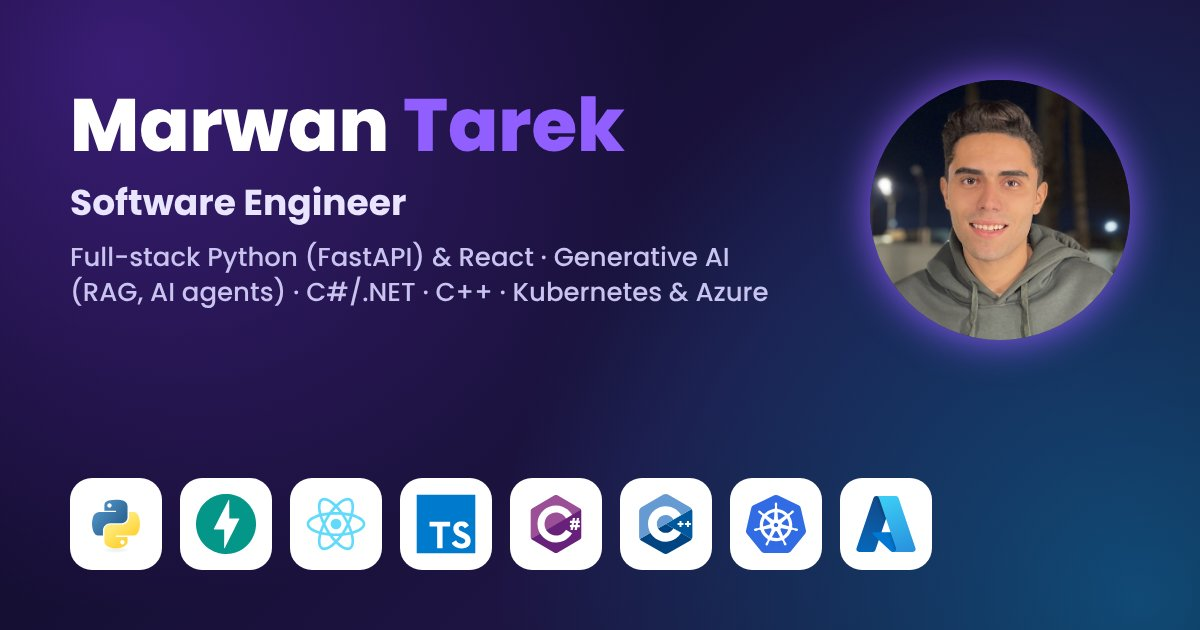
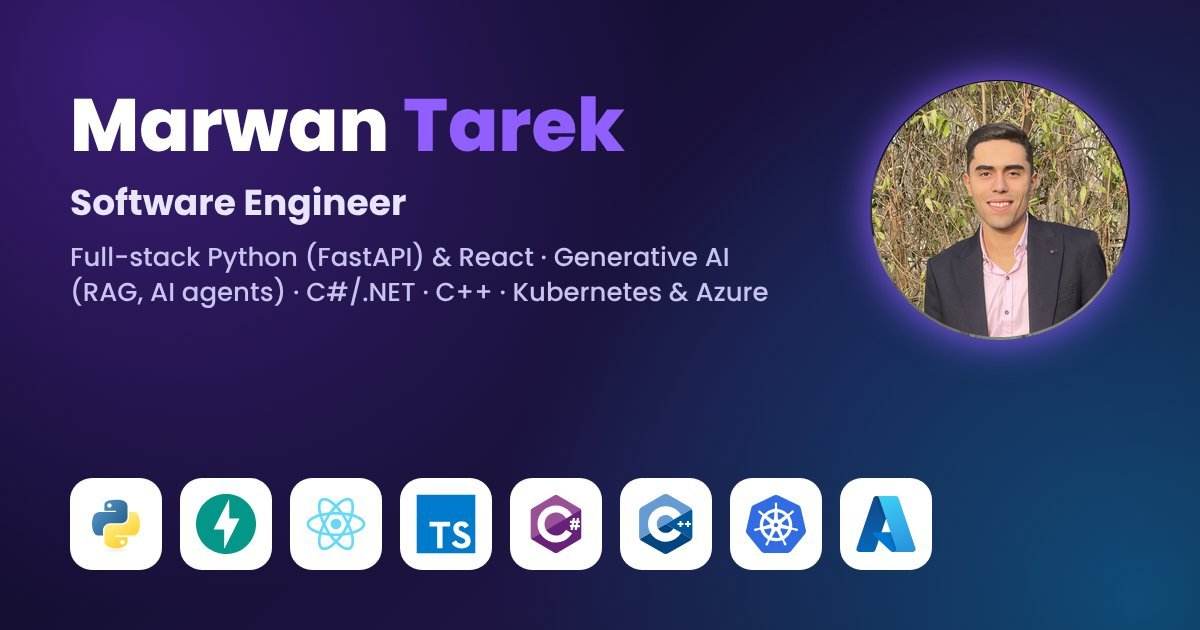
New profile photo and working contact form
- Replace the profile photo (head-and-shoulders crop) and update the
  link-preview image
- Contact form: EmailJS keys were never configured, so every message
  failed. Send through FormSubmit instead (EmailJS still used if its
  keys are set), add a honeypot and email check, and show the direct
  email address if sending fails

Claude-Session: https://claude.ai/code/session_019At8GHHbdBG1uuzs9xtRVt

Changed region(s): [[0.7092, 0.1206, 0.9558, 0.5429]]

diff --git a/src/components/Contact.jsx b/src/components/Contact.jsx
@@ -14,6 +14,44 @@ import { EMAIL, PHONE_DISPLAY, PHONE_TEL } from "../constants";
 import { FontAwesomeIcon } from "@fortawesome/react-fontawesome";
 import { faUser, faEnvelope, faComment, faPaperPlane, faSpinner, faPhone } from "@fortawesome/free-solid-svg-icons";
 
+// Messages are delivered to EMAIL through FormSubmit (https://formsubmit.co).
+// If EmailJS keys are ever added in Vercel (VITE_EMAILJS_SERVICE_ID,
+// VITE_EMAILJS_TEMPLATE_ID, VITE_EMAIL_JS_ACCESS_TOKEN), EmailJS is used instead.
+const EMAILJS = {
+  service: import.meta.env.VITE_EMAILJS_SERVICE_ID,
+  template: import.meta.env.VITE_EMAILJS_TEMPLATE_ID,
+  key: import.meta.env.VITE_EMAIL_JS_ACCESS_TOKEN,
+};
+
+const sendMessage = async ({ name, email, message }) => {
+  if (EMAILJS.service && EMAILJS.template && EMAILJS.key) {
+    return emailjs.send(
+      EMAILJS.service,
+      EMAILJS.template,
+      { from_name: name, to_name: "Marwan Tarek Zaky", from_email: email, to_email: EMAIL, message },
+      EMAILJS.key
+    );
+  }
+  const res = await fetch(`https://formsubmit.co/ajax/${EMAIL}`, {
+    method: "POST",
+    headers: { "Content-Type": "application/json", Accept: "application/json" },
+    body: JSON.stringify({
+      name,
+      email,
+      message,
+      _replyto: email,
+      _subject: `Portfolio message from ${name}`,
+      _template: "table",
+      _captcha: "false",
+    }),
+  });
+  const data = await res.json().catch(() => ({}));
+  if (!res.ok || String(data.success) !== "true") {
+    throw new Error(data.message || `FormSubmit HTTP ${res.status}`);
+  }
+  return data;
+};
+
 const Contact = () => {
   const formRef = useRef();
   const captchaRef = useRef(); // <-- NEW
@@ -83,21 +121,20 @@ const Contact = () => {
       return;
     }
 
+    if (!/^[^\s@]+@[^\s@]+\.[^\s@]+$/.test(form.email)) {
+      toast.error("Please enter a valid email address.", {
+        duration: 3000,
+        position: 'bottom-right',
+      });
+      return;
+    }
+
+    // Spam bots fill every field, including the hidden one.
+    if (formRef.current?.elements?._honey?.value) return;
+
     setLoading(true);
 
-    emailjs
-      .send(
-        import.meta.env.VITE_EMAILJS_SERVICE_ID,
-        import.meta.env.VITE_EMAILJS_TEMPLATE_ID,
-        {
-          from_name: form.name,
-          to_name: "Marwan Tarek Zaky",
-          from_email: form.email,
-          to_email: "marwantarekzaky@gmail.com",
-          message: form.message,
-        },
-        import.meta.env.VITE_EMAIL_JS_ACCESS_TOKEN
-      )
+    sendMessage(form)
       .then(
         () => {
           setLoading(false);
@@ -118,10 +155,12 @@ const Contact = () => {
         (error) => {
           setLoading(false);
           console.error(error);
-          toast.error("Something went wrong. Please try again.", {
-            duration: 3000,
-            position: 'bottom-right',
-          });
+          toast.error(
+            `Sorry, the message could not be sent. Please email me directly at ${EMAIL}.`,
+            { duration: 6000, position: 'bottom-right' }
+          );
+          setCaptchaToken(null);
+          captchaRef.current?.reset();
         }
       );
   };
@@ -170,6 +209,14 @@ const Contact = () => {
           onSubmit={handleSubmit}
           className="mt-12 flex flex-col gap-8"
         >
+          <input
+            type="text"
+            name="_honey"
+            tabIndex={-1}
+            autoComplete="off"
+            aria-hidden="true"
+            style={{ display: "none" }}
+          />
           <div className="flex flex-col sm:flex-row gap-8">
             <div className="flex-1">
               <label className="flex flex-col">

diff --git a/README.MD b/README.MD
@@ -5,7 +5,7 @@ Personal portfolio of **Marwan Tarek Zaky**, Software Engineer (Python/FastAPI, 
 **Live:** https://portfolio-marwantarekzakys-projects.vercel.app/
 
 ## Stack
-React 18 · Vite · Tailwind CSS · Framer Motion · Three.js (@react-three/fiber) · EmailJS · deployed on Vercel.
+React 18 · Vite · Tailwind CSS · Framer Motion · Three.js (@react-three/fiber) · FormSubmit · deployed on Vercel.
 
 ## Editing content
 All text (experience, projects, courses, skills groups, links) lives in:
@@ -22,7 +22,7 @@ npm run dev      # http://localhost:5173
 npm run build    # production build in ./dist
 ```
 
-Contact form environment variables (set in Vercel): `VITE_EMAILJS_SERVICE_ID`, `VITE_EMAILJS_TEMPLATE_ID`, `VITE_EMAIL_JS_ACCESS_TOKEN`, `VITE_RECAPTCHA_SITE_KEY`.
+Contact form: messages are sent to the email in `src/constants/index.js` through [FormSubmit](https://formsubmit.co) (no account needed; the first message triggers a one-time "Activate Form" email). `VITE_RECAPTCHA_SITE_KEY` is read from `.env.local`. Optionally, setting `VITE_EMAILJS_SERVICE_ID`, `VITE_EMAILJS_TEMPLATE_ID` and `VITE_EMAIL_JS_ACCESS_TOKEN` in Vercel switches the form to EmailJS.
 
 ## Deploy
 Every push to `main` is deployed to production by Vercel automatically.
